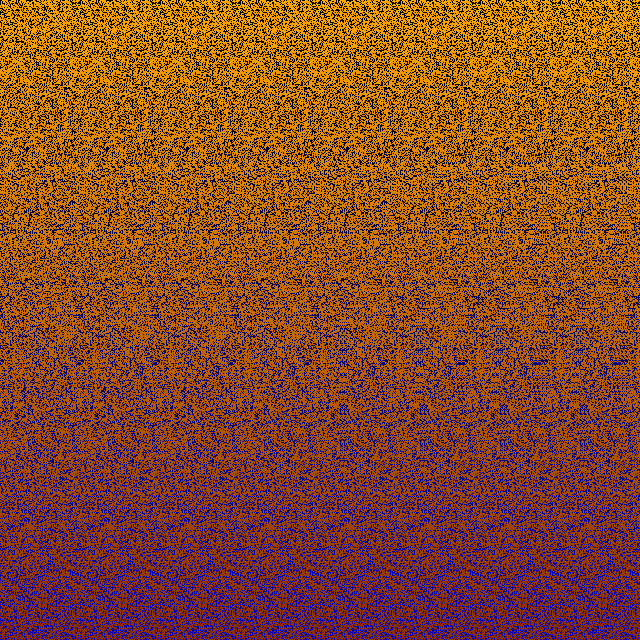
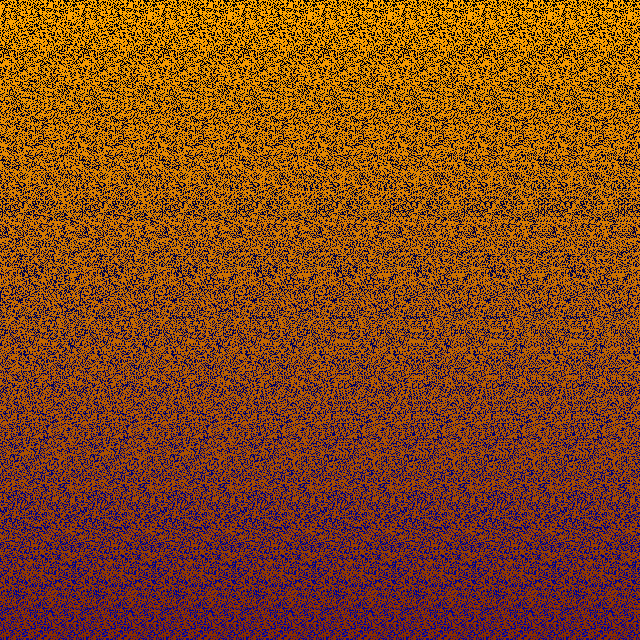
changed color values and depth

diff --git a/src/main.rs b/src/main.rs
@@ -12,7 +12,7 @@ fn main() {
 		let ratio = ((0.25 * _y as f32) *0.75) as u8;
 		let ratio2 = _y as f32 / (640.0 / 2.0);
 		match color {
-			0 => *pixel = image::Rgb([0, 0, (100.0 * ratio2) as u8]),
+			0 => *pixel = image::Rgb([0, 0, (80.0 * ratio2) as u8]),
 			1 => *pixel = image::Rgb([255 - ratio, 165 - ratio, 0]),
 			2 => *pixel = image::Rgb([255 - ratio, 165 - ratio, 0]),
 			_ => *pixel = image::Rgb([0, 0, 0]),
@@ -52,8 +52,12 @@ fn main() {
 				{
 					let inputpixel = input.get_pixel(x+(80*(stripe-1)), y-80);
 					if inputpixel == image::Rgba([0, 0, 0, 255]) {
-						let &pixel = finalimg.get_pixel(x+4+(80*(stripe-1)), y);
-						let &pixel2 = finalimg.get_pixel(x+(80*(stripe-1)), y);
+						let mut shift = 6;
+						// if stripe > 4 {
+						// 	shift = 3;
+						// }
+						let &pixel = finalimg.get_pixel(x+shift+(80*(stripe-1)), y);
+						// let &pixel2 = finalimg.get_pixel(x+(80*(stripe-1)), y);
 						for i in stripe..8 {
 							finalimg.put_pixel(x+(80*i), y, pixel);
 						}
